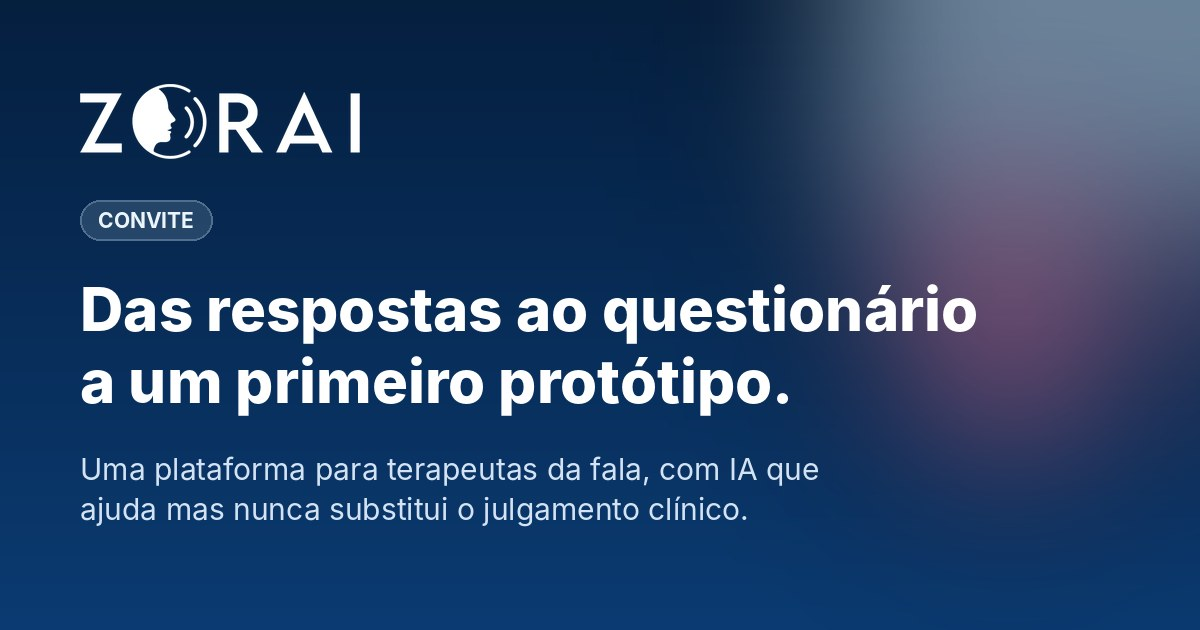
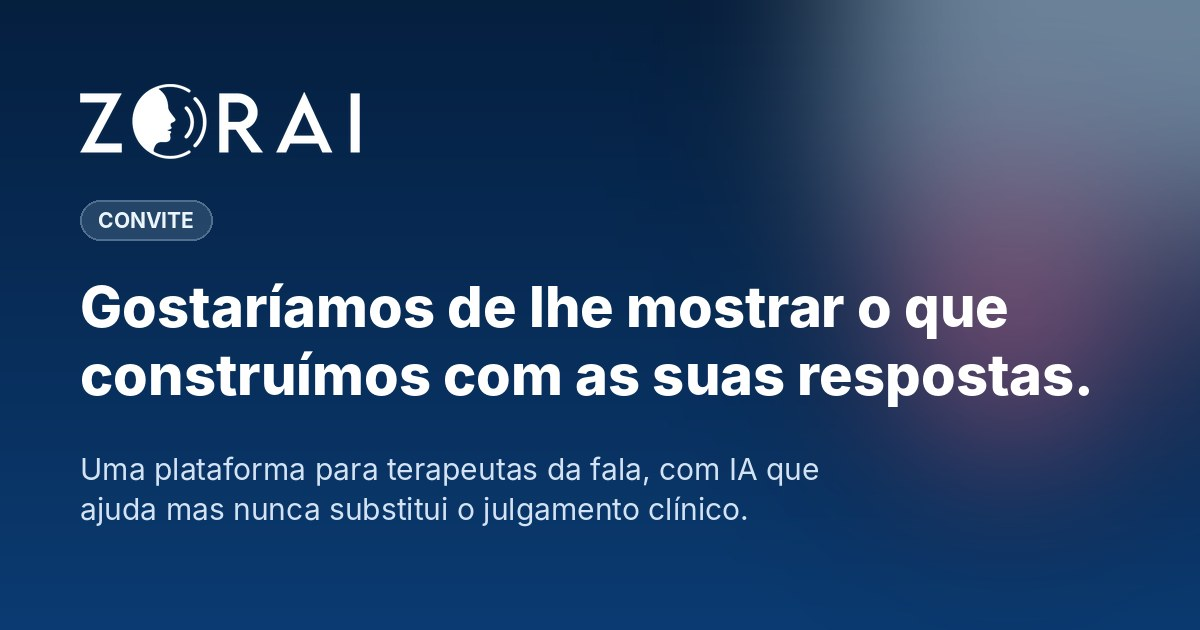
Add files via upload

Changed region(s): [[0.0617, 0.4524, 0.925, 0.6635]]

diff --git a/index.html b/index.html
@@ -9,7 +9,7 @@
 <meta property="og:type" content="website">
 <meta property="og:locale" content="pt_PT">
 <meta property="og:url" content="https://convite.zorai.pt/">
-<meta property="og:title" content="ZORAI · Das respostas ao questionário a um primeiro protótipo">
+<meta property="og:title" content="ZORAI · Gostaríamos de lhe mostrar o que construímos com as suas respostas">
 <meta property="og:description" content="Convite para terapeutas da fala: 20 a 30 minutos, presencial ou por videochamada, sem compromisso.">
 <meta property="og:image" content="https://convite.zorai.pt/og.jpg">
 <meta property="og:image:width" content="1200">
@@ -163,7 +163,7 @@
   <div class="wrap">
     <img class="logo" src="logo-branco.png" alt="ZORAI" width="120">
     <span class="eyebrow">Convite</span>
-    <h1>Das respostas ao questionário a um primeiro protótipo.</h1>
+    <h1>Gostaríamos de lhe mostrar o que construímos com as suas respostas.</h1>
     <p>A ZORAI é uma plataforma para terapeutas da fala que junta o trabalho clínico e o administrativo, com um assistente de IA que ajuda, mas nunca substitui o terapeuta. As decisões são sempre do profissional.</p>
   </div>
 </header>
@@ -185,7 +185,7 @@
       <div class="stat"><b><span class="count" data-to="90">90</span>%</b><span>indicaram os relatórios entre as tarefas que mais tempo lhes tiram.</span></div>
       <div class="stat"><b><span class="count" data-to="80">80</span>%</b><span>apontaram a confidencialidade dos dados como preocupação com a IA.</span></div>
     </div>
-    <p>Construímos um primeiro protótipo a pensar nisso. O passo seguinte é ouvir quem respondeu.</p>
+    <p>Construímos um primeiro protótipo a pensar nisso. Agora gostávamos muito de saber a sua opinião.</p>
   </section>
 
   <section>
@@ -228,29 +228,29 @@
   </section>
 
   <section>
-    <h2>O pedido</h2>
+    <h2>O que lhe pedimos</h2>
     <ul class="reveal ask">
       <li>
         <svg width="22" height="22" viewBox="0 0 24 24" fill="none" stroke="#2367A8" stroke-width="2" stroke-linecap="round" stroke-linejoin="round" aria-hidden="true"><circle cx="12" cy="12" r="9"/><path d="M12 7v5l3 2"/></svg>
-        <span><b>20 a 30 minutos</b>, no dia e hora mais convenientes.</span>
+        <span><b>20 a 30 minutos</b> do seu tempo, no dia e hora que preferir.</span>
       </li>
       <li>
         <svg width="22" height="22" viewBox="0 0 24 24" fill="none" stroke="#2367A8" stroke-width="2" stroke-linecap="round" stroke-linejoin="round" aria-hidden="true"><rect x="3" y="5" width="13" height="12" rx="2"/><path d="M16 10l5-3v10l-5-3"/></svg>
-        <span><b>Presencial ou por videochamada</b>, à escolha.</span>
+        <span><b>Presencial ou por videochamada</b>, como lhe for mais conveniente.</span>
       </li>
       <li>
         <svg width="22" height="22" viewBox="0 0 24 24" fill="none" stroke="#2367A8" stroke-width="2" stroke-linecap="round" stroke-linejoin="round" aria-hidden="true"><path d="M20 6L9 17l-5-5"/></svg>
-        <span><b>Sem compromisso.</b> O objetivo é ouvir opiniões sinceras.</span>
+        <span><b>Sem compromisso.</b> Queremos sobretudo ouvir o que pensa.</span>
       </li>
       <li>
         <svg width="22" height="22" viewBox="0 0 24 24" fill="none" stroke="#2367A8" stroke-width="2" stroke-linecap="round" stroke-linejoin="round" aria-hidden="true"><rect x="5" y="11" width="14" height="10" rx="2"/><path d="M8 11V8a4 4 0 0 1 8 0v3"/></svg>
-        <span><b>Só com dados fictícios.</b> Não é preciso trazer nada sobre utentes.</span>
+        <span><b>Só com dados fictícios.</b> Não precisa de trazer nada sobre os seus utentes.</span>
       </li>
     </ul>
 
     <div class="reveal cta">
       <h2>Como marcar</h2>
-      <p>Basta responder à mensagem de WhatsApp que acompanha esta página, indicando o dia e a hora mais convenientes.</p>
+      <p>Basta responder à mensagem de WhatsApp em que recebeu esta página, com o dia e a hora que lhe forem mais convenientes.</p>
     </div>
   </section>
 
